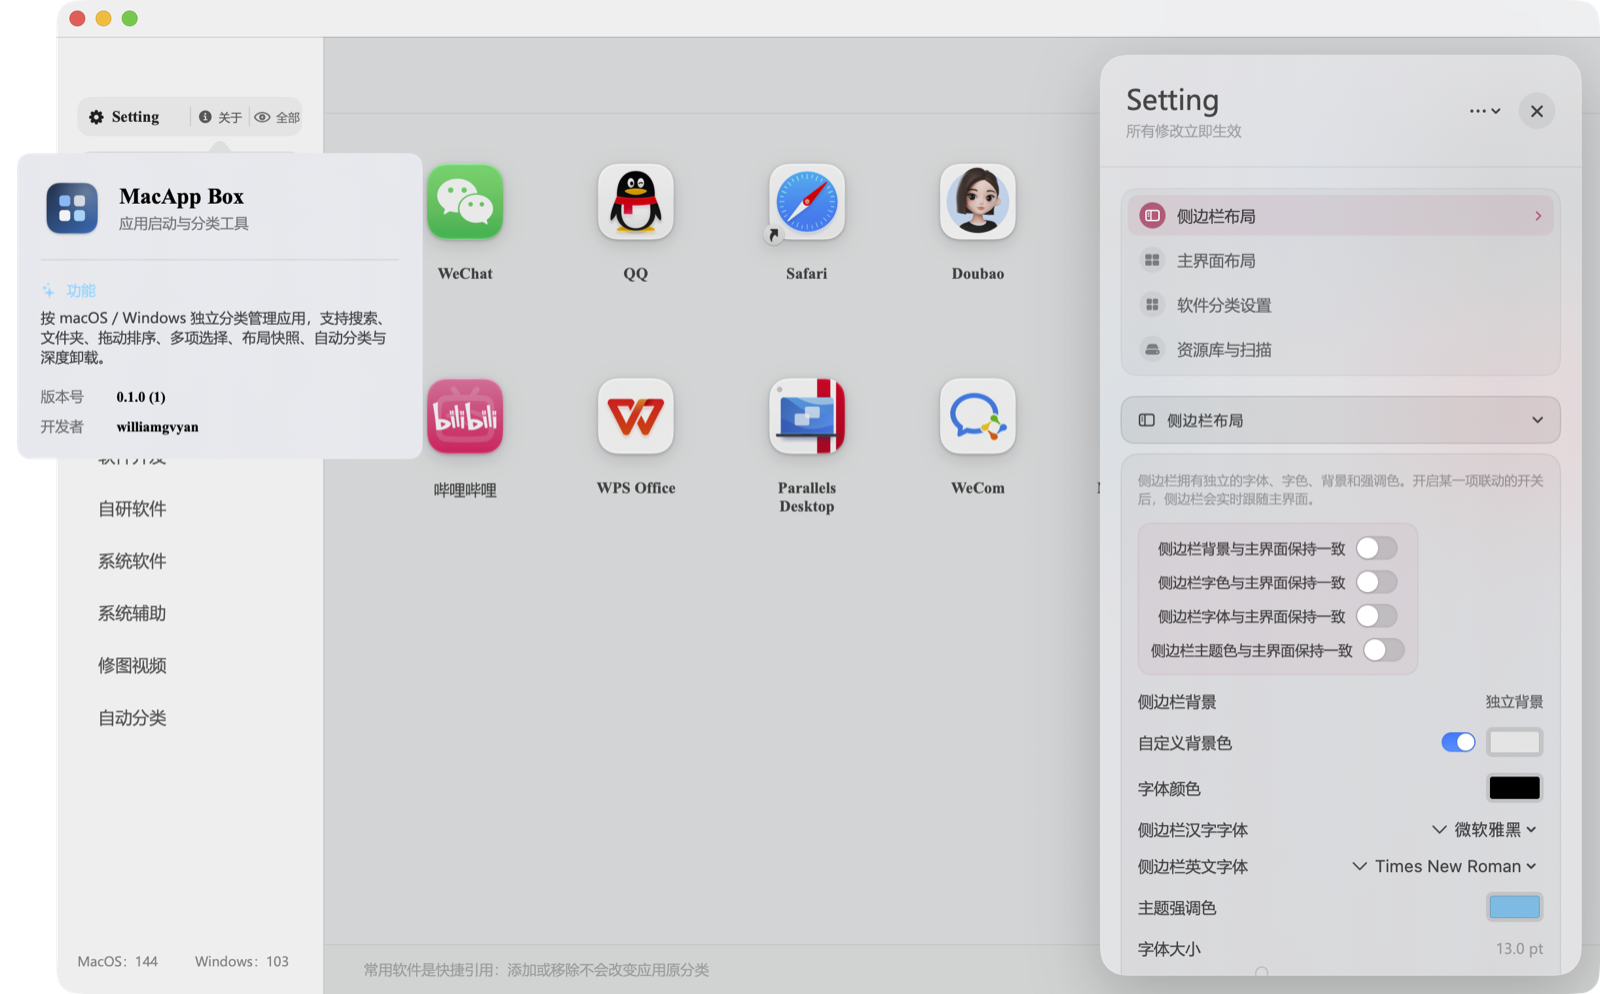
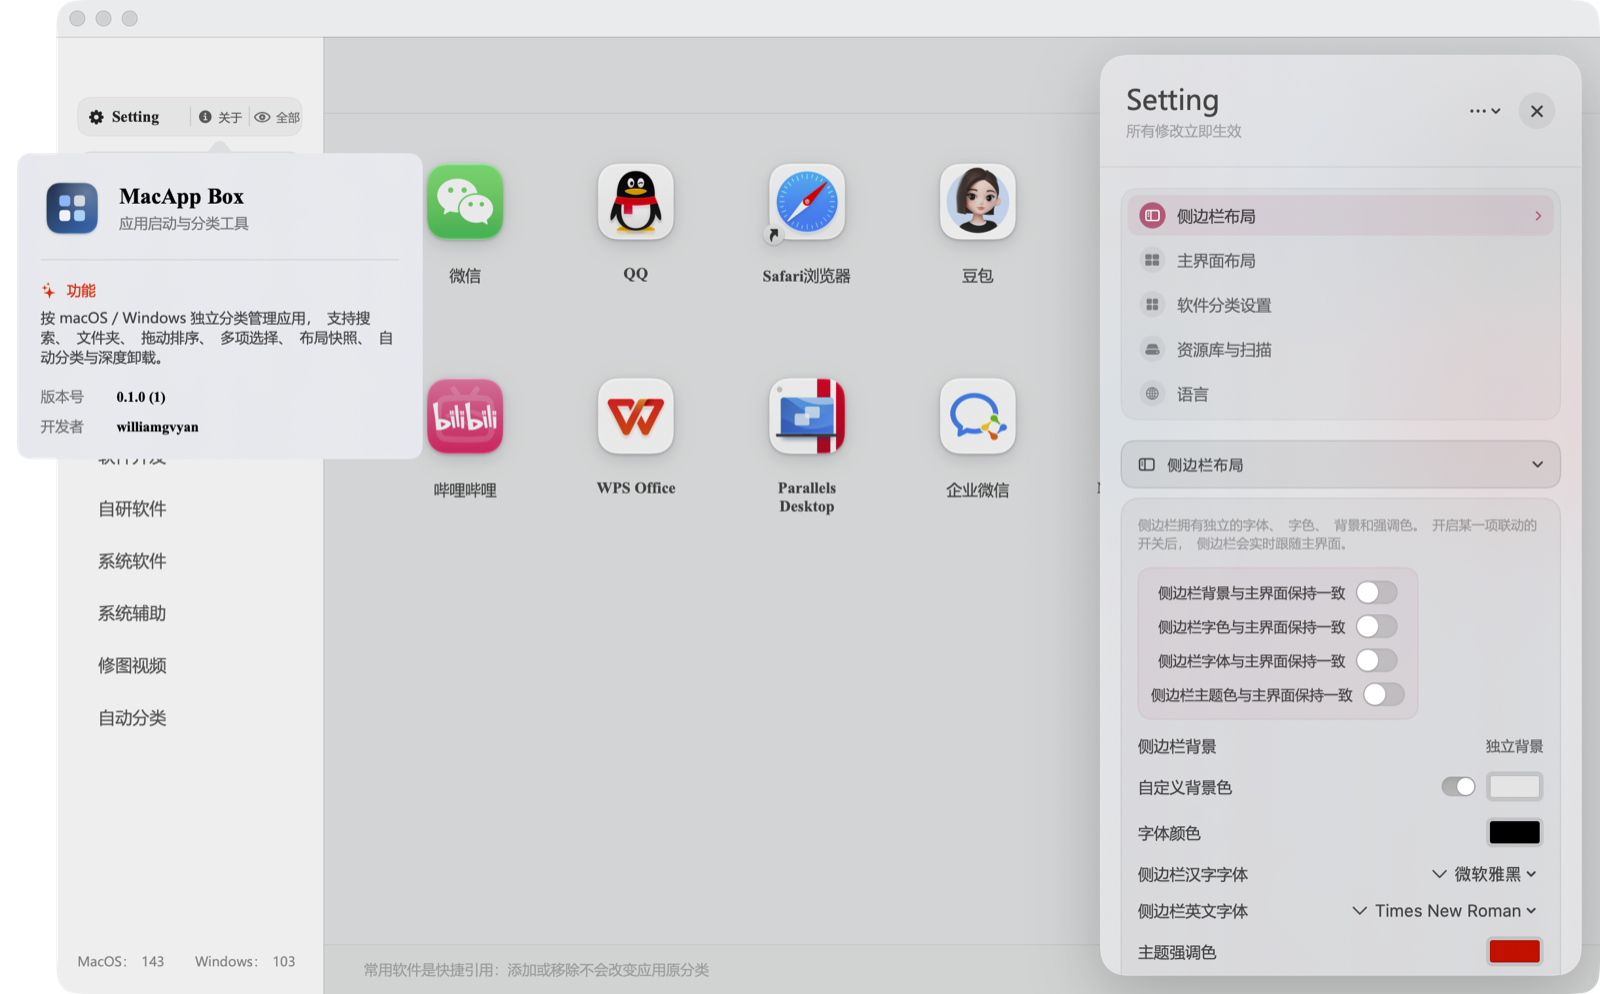
Add Chinese and English interface switching

diff --git a/Sources/MacAppBox/Views/SettingsPanelView.swift b/Sources/MacAppBox/Views/SettingsPanelView.swift
@@ -13,6 +13,7 @@ struct SettingsPanelView: View {
     private var _sidebarExpanded = State(initialValue: false)
     private var _categoriesExpanded = State(initialValue: false)
     private var _libraryExpanded = State(initialValue: false)
+    private var _languageExpanded = State(initialValue: false)
     private var _confirmation = State<SettingsConfirmation?>(initialValue: nil)
     private var _layoutName = State(initialValue: "")
     private var _selectedLayoutID = State<String?>(initialValue: nil)
@@ -84,6 +85,11 @@ struct SettingsPanelView: View {
         nonmutating set { _libraryExpanded.wrappedValue = newValue }
     }
 
+    private var languageExpanded: Bool {
+        get { _languageExpanded.wrappedValue }
+        nonmutating set { _languageExpanded.wrappedValue = newValue }
+    }
+
     private var confirmation: SettingsConfirmation? {
         get { _confirmation.wrappedValue }
         nonmutating set { _confirmation.wrappedValue = newValue }
@@ -122,6 +128,10 @@ struct SettingsPanelView: View {
 
     private var libraryBinding: Binding<Bool> {
         Binding(get: { libraryExpanded }, set: { libraryExpanded = $0 })
+    }
+
+    private var languageBinding: Binding<Bool> {
+        Binding(get: { languageExpanded }, set: { languageExpanded = $0 })
     }
 
     private var confirmationBinding: Binding<Bool> {
@@ -296,7 +306,7 @@ struct SettingsPanelView: View {
                                     )
                             }
 
-                        Text(pane.title)
+                        Text(store.settingsTitle(for: pane))
                             .font(.app(11.5, weight: activePane == pane ? .semibold : .medium))
                             .foregroundStyle(
                                 activePane == pane
@@ -349,6 +359,8 @@ struct SettingsPanelView: View {
             categoriesSection
         case .library:
             librarySection
+        case .language:
+            languageSection
         }
     }
 
@@ -568,7 +580,7 @@ struct SettingsPanelView: View {
 
     private var sidebarSection: some View {
         SettingsSection(
-            title: "侧边栏布局",
+            title: store.localized("侧边栏布局", "Sidebar"),
             symbol: SettingsPane.sidebar.symbol,
             isExpanded: sidebarBinding,
             accentColor: store.fontColor
@@ -777,7 +789,7 @@ struct SettingsPanelView: View {
 
     private var layoutSection: some View {
         SettingsSection(
-            title: "主界面布局",
+            title: store.localized("主界面布局", "Main Layout"),
             symbol: SettingsPane.layout.symbol,
             isExpanded: layoutBinding,
             accentColor: store.fontColor
@@ -1093,11 +1105,13 @@ struct SettingsPanelView: View {
         sidebarExpanded = pane == .sidebar
         categoriesExpanded = pane == .categories
         libraryExpanded = pane == .library
+        languageExpanded = pane == .language
     }
 
     private var categoriesSection: some View {
         SettingsSection(
-            title: "软件分类设置 · \(store.selectedSystem.title)",
+            title: store.localized("软件分类设置", "Categories")
+                + " · \(store.selectedSystem.title)",
             symbol: SettingsPane.categories.symbol,
             isExpanded: categoriesBinding,
             accentColor: store.fontColor
@@ -1257,7 +1271,7 @@ struct SettingsPanelView: View {
 
     private var librarySection: some View {
         SettingsSection(
-            title: "资源库与扫描",
+            title: store.localized("资源库与扫描", "Library & Scanning"),
             symbol: SettingsPane.library.symbol,
             isExpanded: libraryBinding,
             accentColor: store.fontColor
@@ -1322,6 +1336,45 @@ struct SettingsPanelView: View {
 
                 sectionResetButton("恢复资料库默认值") {
                     store.resetLibrarySettings()
+                }
+            }
+        }
+    }
+
+    private var languageSection: some View {
+        SettingsSection(
+            title: store.localized("语言", "Language"),
+            symbol: SettingsPane.language.symbol,
+            isExpanded: languageBinding,
+            accentColor: store.fontColor
+        ) {
+            VStack(alignment: .leading, spacing: 12) {
+                Text("界面语言切换会立即生效。应用名称、分类名称和文件夹名称属于你的数据，不会被自动翻译。")
+                    .font(.app(10))
+                    .foregroundStyle(.secondary)
+                    .fixedSize(horizontal: false, vertical: true)
+
+                Picker("", selection: $store.appLanguage) {
+                    ForEach(AppLanguage.allCases) { language in
+                        Text(language.title).tag(language)
+                    }
+                }
+                .labelsHidden()
+                .pickerStyle(.segmented)
+
+                HStack {
+                    Text("当前语言")
+                        .font(.app(10.5))
+                        .foregroundStyle(.secondary)
+                    Spacer()
+                    Text(store.appLanguage.title)
+                        .font(.app(10.5, weight: .semibold))
+                }
+
+                sectionResetButton(
+                    store.localized("恢复语言默认值", "Reset Language")
+                ) {
+                    store.resetLanguageSettings()
                 }
             }
         }

diff --git a/Sources/MacAppBox/Stores/LauncherStore.swift b/Sources/MacAppBox/Stores/LauncherStore.swift
@@ -143,6 +143,9 @@ final class LauncherStore: ObservableObject {
     @Published var appearanceMode: AppearanceMode = .system {
         didSet { save() }
     }
+    @Published var appLanguage: AppLanguage = .chinese {
+        didSet { save() }
+    }
     @Published var theme: AppThemePreset = .system {
         didSet { save() }
     }
@@ -334,6 +337,25 @@ final class LauncherStore: ObservableObject {
 
     var accentColor: Color {
         Color(hex: theme.accentHex)
+    }
+
+    func localized(_ chinese: String, _ english: String) -> String {
+        appLanguage == .english ? english : chinese
+    }
+
+    func settingsTitle(for pane: SettingsPane) -> String {
+        switch pane {
+        case .sidebar:
+            localized("侧边栏布局", "Sidebar")
+        case .layout:
+            localized("主界面布局", "Main Layout")
+        case .categories:
+            localized("软件分类设置", "Categories")
+        case .library:
+            localized("资源库与扫描", "Library & Scanning")
+        case .language:
+            localized("语言", "Language")
+        }
     }
 
     var surfaceColor: Color {
@@ -1361,11 +1383,16 @@ final class LauncherStore: ObservableObject {
         save()
     }
 
+    func resetLanguageSettings() {
+        appLanguage = .chinese
+    }
+
     func resetAllCustomizableSettings() {
         resetAppearanceSettings()
         resetLayoutPreferences()
         resetSidebarSettings()
         resetLibrarySettings()
+        resetLanguageSettings()
         save()
     }
 
@@ -1738,6 +1765,7 @@ final class LauncherStore: ObservableObject {
         hiddenAppIDs = Set(state.hiddenAppIDs)
         showWindowsUtilities = state.showWindowsUtilities
         showNames = state.showNames
+        appLanguage = state.appLanguage ?? .chinese
         iconScale = min(2.0, max(0.25, state.iconScale))
         appearanceMode = state.appearanceMode
         itemOrders = state.itemOrders ?? [:]
@@ -2014,7 +2042,8 @@ final class LauncherStore: ObservableObject {
             autoClassificationReasons: autoClassificationReasons,
             essentialAppIDs: Array(essentialAppIDs),
             selectionMemory: Array(selectionMemory),
-            classificationReferenceColumns: classificationReferenceColumns
+            classificationReferenceColumns: classificationReferenceColumns,
+            appLanguage: appLanguage
         )
         let generation = stateSaveGate.next()
         let gate = stateSaveGate

diff --git a/Sources/MacAppBox/Models/LauncherModels.swift b/Sources/MacAppBox/Models/LauncherModels.swift
@@ -130,6 +130,27 @@ enum AppearanceMode: String, CaseIterable, Codable, Identifiable {
     }
 }
 
+enum AppLanguage: String, CaseIterable, Codable, Identifiable {
+    case chinese
+    case english
+
+    var id: String { rawValue }
+
+    var title: String {
+        switch self {
+        case .chinese: "简体中文"
+        case .english: "English"
+        }
+    }
+
+    var localeIdentifier: String {
+        switch self {
+        case .chinese: "zh-Hans"
+        case .english: "en"
+        }
+    }
+}
+
 enum AppFontStyle: String, CaseIterable, Codable, Identifiable {
     case system
     case yahei
@@ -318,6 +339,7 @@ struct SavedLauncherState: Codable {
     var essentialAppIDs: [String]?
     var selectionMemory: [String]?
     var classificationReferenceColumns: Int?
+    var appLanguage: AppLanguage?
 }
 
 struct LayoutSnapshot: Identifiable, Codable {
@@ -363,6 +385,7 @@ enum SettingsPane: String, CaseIterable, Identifiable {
     case layout
     case categories
     case library
+    case language
 
     var id: String { rawValue }
 
@@ -372,6 +395,7 @@ enum SettingsPane: String, CaseIterable, Identifiable {
         case .layout: "主界面布局"
         case .categories: "软件分类设置"
         case .library: "资源库与扫描"
+        case .language: "语言"
         }
     }
 
@@ -381,6 +405,7 @@ enum SettingsPane: String, CaseIterable, Identifiable {
         case .layout: "rectangle.grid.2x2.fill"
         case .categories: "square.grid.2x2.fill"
         case .library: "externaldrive.fill"
+        case .language: "globe"
         }
     }
 }

diff --git a/Sources/MacAppBox/Views/SidebarView.swift b/Sources/MacAppBox/Views/SidebarView.swift
@@ -256,7 +256,10 @@ struct SidebarView: View {
                 Button {
                     openSettingsPane(pane)
                 } label: {
-                    Label("    \(pane.title)", systemImage: pane.symbol)
+                    Label(
+                        "    \(store.settingsTitle(for: pane))",
+                        systemImage: pane.symbol
+                    )
                 }
             }
         }
@@ -564,7 +567,10 @@ private struct CategorySidebarRow: View {
                 Button {
                     openSettingsPane(pane)
                 } label: {
-                    Label("    \(pane.title)", systemImage: pane.symbol)
+                    Label(
+                        "    \(store.settingsTitle(for: pane))",
+                        systemImage: pane.symbol
+                    )
                 }
             }
         }

diff --git a/Sources/MacAppBox/Views/RootView.swift b/Sources/MacAppBox/Views/RootView.swift
@@ -83,6 +83,10 @@ struct RootView: View {
             }
         }
         .preferredColorScheme(preferredColorScheme)
+        .environment(
+            \.locale,
+            Locale(identifier: store.appLanguage.localeIdentifier)
+        )
         .environment(\.font, .app(12.5))
         .onReceive(NotificationCenter.default.publisher(for: .openMacAppBoxSettings)) { _ in
             withAnimation(.snappy(duration: 0.24)) {

diff --git a/Sources/MacAppBox/Views/LibraryView.swift b/Sources/MacAppBox/Views/LibraryView.swift
@@ -1122,7 +1122,10 @@ struct LibraryView: View {
                 Button {
                     openSettingsPane(pane)
                 } label: {
-                    Label("    \(pane.title)", systemImage: pane.symbol)
+                    Label(
+                        "    \(store.settingsTitle(for: pane))",
+                        systemImage: pane.symbol
+                    )
                 }
             }
         }

diff --git a/Package.swift b/Package.swift
@@ -4,6 +4,7 @@ import PackageDescription
 
 let package = Package(
     name: "MacAppBox",
+    defaultLocalization: "zh-Hans",
     platforms: [
         .macOS(.v14)
     ],

diff --git a/README.md b/README.md
@@ -12,9 +12,12 @@
 
 ![MacApp Box 关于页](docs/screenshots/about.png)
 
+![MacApp Box 中英语言切换](docs/screenshots/language-en.png)
+
 ## 当前版本
 
 - 原生 macOS 窗口，保留关闭、最小化、放大交通灯。
+- 设置内提供简体中文与 English 实时切换；应用名和自定义分类名保持原样。
 - `macOS / Windows` 两级系统切换。
 - macOS 与 Windows 各自保存独立的类别名称、顺序、锁定状态和应用归属；在一个系统改分类不会影响另一个系统。
 - 当前 Windows 分类已按用户要求清空到只保留「常用推荐」和兜底「未分类软件」；macOS 分类未改动。

diff --git a/CHANGELOG.md b/CHANGELOG.md
@@ -1,5 +1,12 @@
 # Changelog
 
+## 0.2.0 - 2026-10-25
+
+- 新增独立“语言”设置，可在简体中文和 English 之间实时切换。
+- 首批本地化覆盖设置导航、主界面、右键菜单、关于页和常用操作提示。
+- 应用名、分类名、文件夹名属于用户数据，切换语言时保持原样。
+- GitHub README 更新为当前版本的实际运行截图。
+
 ## 0.1.0 - 2026-10-25
 
 首个 GitHub 版本。
